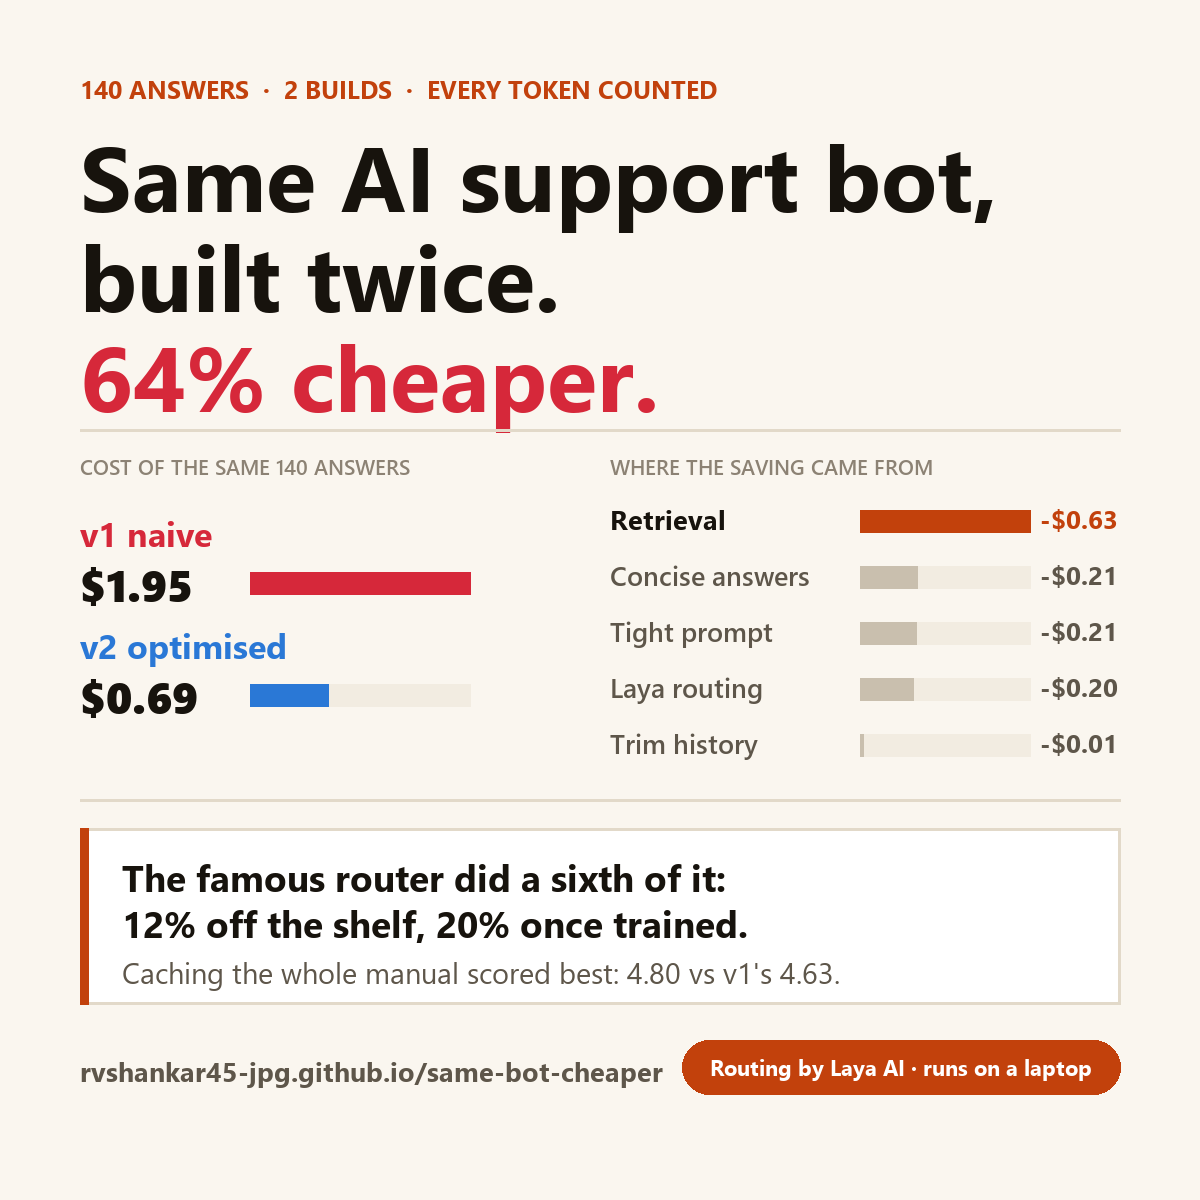
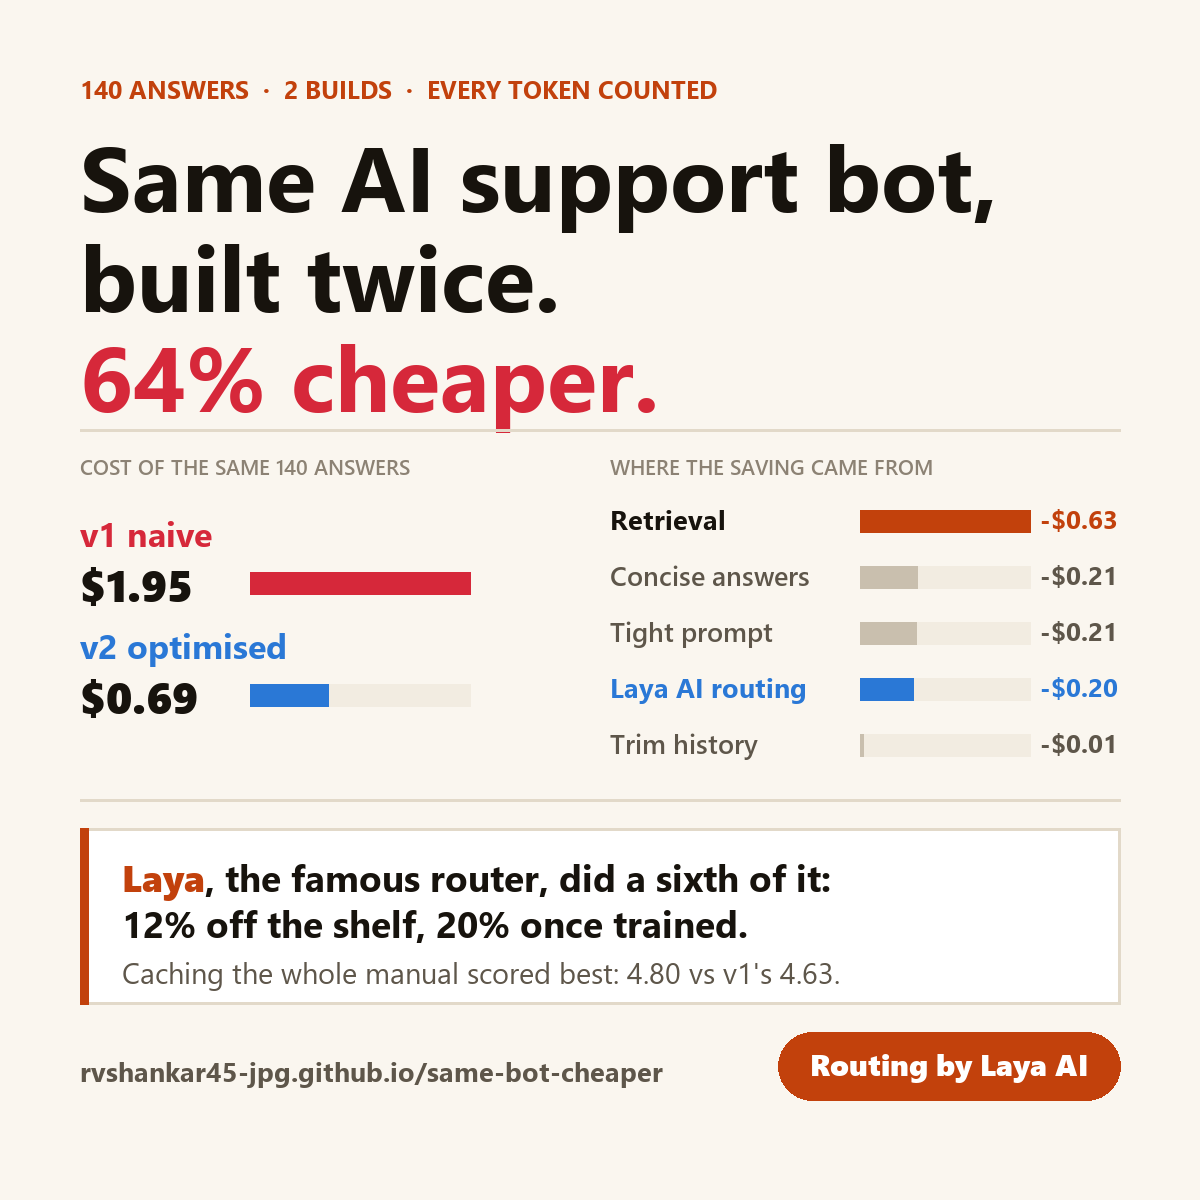
Make Laya prominent on the share card and the hero image

diff --git a/blog/make_card.py b/blog/make_card.py
@@ -31,7 +31,7 @@ def main():
     v1, v2 = s.loc["v1_naive", "total_cost_usd"], s.loc["v2_full", "total_cost_usd"]
     steps = ["v1_naive", "plus_route", "plus_retrieve", "plus_trim", "plus_tight_cache", "v2_full"]
     d = -s.loc[steps, "total_cost_usd"].diff().iloc[1:]
-    names = {"plus_route": "Laya routing", "plus_retrieve": "Retrieval", "plus_trim": "Trim history",
+    names = {"plus_route": "Laya AI routing", "plus_retrieve": "Retrieval", "plus_trim": "Trim history",
              "plus_tight_cache": "Tight prompt", "v2_full": "Concise answers"}
     d = d.sort_values(ascending=False)
     n_units = int(s.loc["v1_naive", "answers"])
@@ -64,26 +64,28 @@ def main():
     top = d.iloc[0]
     for i, (k, val) in enumerate(d.items()):
         y = 500 + i * 56
-        bold = i == 0
-        g.text((RX, y), names[k], font=(BOLD if bold else SEMI)(27), fill=INK if bold else INK2)
+        bold, laya = i == 0, k == "plus_route"  # top saver in orange; Laya highlighted in blue
+        col = FLAG if bold else (BLUE if laya else "#C9BFAE")
+        g.text((RX, y), names[k], font=(BOLD if bold or laya else SEMI)(27), fill=INK if bold else (BLUE if laya else INK2))
         bx = RX + 250
         g.rectangle([bx, y + 10, bx + 170, y + 32], fill=TRACK)
-        g.rectangle([bx, y + 10, bx + max(3, int(170 * val / top)), y + 32], fill=FLAG if bold else "#C9BFAE")
-        g.text((bx + 180, y), f"-${val:.2f}", font=BOLD(26), fill=FLAG if bold else INK2)
+        g.rectangle([bx, y + 10, bx + max(3, int(170 * val / top)), y + 32], fill=col)
+        g.text((bx + 180, y), f"-${val:.2f}", font=BOLD(26), fill=FLAG if bold else (BLUE if laya else INK2))
     g.line([(X, 800), (1120, 800)], fill=RULE, width=3)
 
     # quote box
     g.rectangle([X, 828, 1120, 1004], fill=SURF, outline=RULE, width=3)
     g.rectangle([X, 828, X + 8, 1004], fill=FLAG)
-    g.text((X + 42, 852), "The famous router did a sixth of it:", font=BOLD(37), fill=INK)
+    g.text((X + 42, 852), "Laya", font=BLACK(37), fill=FLAG)
+    g.text((X + 42 + g.textlength("Laya", font=BLACK(37)), 852), ", the famous router, did a sixth of it:", font=BOLD(37), fill=INK)
     g.text((X + 42, 898), f"{zs:.0f}% off the shelf, {tr:.0f}% once trained.", font=BOLD(37), fill=INK)
     g.text((X + 42, 952), f"Caching the whole manual scored best: {qc:.2f} vs v1's {q1:.2f}.", font=REG(29), fill=INK2)
 
     g.text((X, 1052), f"rvshankar45-jpg.github.io/{SLUG}", font=BOLD(27), fill=INK2)
-    pill = "Routing by Laya AI · runs on a laptop"
-    pw = g.textlength(pill, font=BOLD(22)) + 56
-    g.rounded_rectangle([1120 - pw, 1040, 1120, 1094], radius=27, fill=FLAG)
-    g.text((1120 - pw + 28, 1052), pill, font=BOLD(22), fill="white")
+    pill = "Routing by Laya AI"
+    pw = g.textlength(pill, font=BLACK(30)) + 64
+    g.rounded_rectangle([1120 - pw, 1032, 1120, 1100], radius=34, fill=FLAG)
+    g.text((1120 - pw + 32, 1043), pill, font=BLACK(30), fill="white")
     OUT.mkdir(parents=True, exist_ok=True)
     im.save(OUT / "card.png", optimize=True)
     print("card.png written:", OUT / "card.png")

diff --git a/blog/make_hero.py b/blog/make_hero.py
@@ -94,10 +94,10 @@ def main():
     g.text((1170, 110), "Same chatbot.", font=BOLD(46), fill=INK)
     g.text((1170, 168), "Same questions.", font=BOLD(46), fill=INK)
     g.text((1170, 226), "Smaller bill.", font=BOLD(46), fill=RED)
-    pill, pf = "Routing by Laya AI", BOLD(30)
-    pw = g.textlength(pill, font=pf) + 56
-    g.rounded_rectangle([1170, 298, 1170 + pw, 352], radius=27, fill=FLAG)
-    g.text((1198, 305), pill, font=pf, fill="white")
+    pill, pf = "Routing by Laya AI", BLACK(34)
+    pw = g.textlength(pill, font=pf) + 60
+    g.rounded_rectangle([1170, 296, 1170 + pw, 360], radius=32, fill=FLAG)
+    g.text((1200, 303), pill, font=pf, fill="white")
     out = ROOT / "blog" / "site"
     out.mkdir(parents=True, exist_ok=True)
     base.convert("RGB").save(out / "hero.png", optimize=True)
